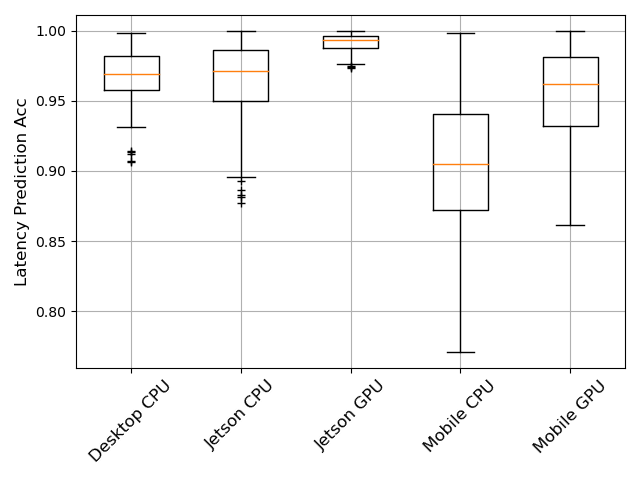
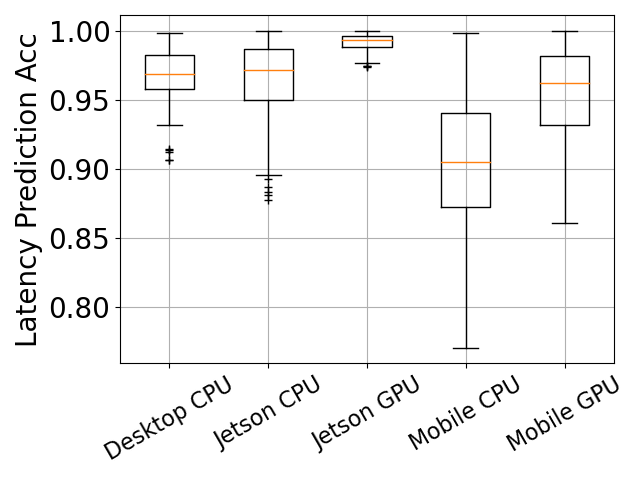
modify the fontsize  of figures

diff --git a/box_plot/box_plot.py b/box_plot/box_plot.py
@@ -103,9 +103,11 @@ fig, ax = plt.subplots()
 ax.boxplot(data, sym='+', positions=range(1, len(data) + 1))
 # Set x-axis labels
 ax.set_xticks(range(1, len(devices) + 1))
-ax.set_xticklabels(devices, rotation=45, fontsize=12)
+ax.set_xticklabels(devices, rotation=30, fontsize=16)
 # Set y-axis label
-ax.set_ylabel('Latency Prediction Acc', fontsize=12)
+ax.set_ylabel('Latency Prediction Acc', fontsize=20)
+ax.tick_params(axis='y', labelsize=20)
+
 # Set title
 # ax.set_title('Boxplot of Model Latency Accuracy (using all 38 configs)', fontsize=12)
 # Show the grid
@@ -185,11 +187,11 @@ ax.boxplot(data, sym='+', positions=range(1, len(data) + 1))
 
 # Set x-axis labels
 ax.set_xticks(range(1, len(devices) + 1))
-ax.set_xticklabels(devices, rotation=45, fontsize=12)
+ax.set_xticklabels(devices, rotation=30, fontsize=16)
 
 # Set y-axis label
-ax.set_ylabel('Memory Prediction Acc', fontsize=12)
-
+ax.set_ylabel('Memory Prediction Acc', fontsize=20)
+ax.tick_params(axis='y', labelsize=20)
 # Set title
 # ax.set_title('Boxplot of Model Memory Accuracy (using all 38 configs)', fontsize=12)
 

diff --git a/server_cpu/acc vs config number.py b/server_cpu/acc vs config number.py
@@ -40,9 +40,13 @@ for train_size in train_data_sizes:
 
 # Create the plot
 plt.figure()
-plt.plot(train_data_sizes, accuracy_values, marker='o', color='orange')
-plt.xlabel('Number of Random Configurations Generated', fontsize=12)
-plt.ylabel('Latency Prediction Acc', fontsize=12)
+plt.figure(figsize=(10, 7))  # Increase figure size
+plt.plot(train_data_sizes, accuracy_values, marker='o', markersize=10, color='orange', linewidth=4)
+plt.xlabel('Number of Random Configurations Generated', fontsize=26)
+plt.ylabel('Latency Prediction Acc', fontsize=26)
+# Set the font size of x and y axis tick labels
+plt.xticks(fontsize=26)
+plt.yticks(fontsize=26)
 # plt.title('Effect of Training Data Size on Model Latency Accuracy', fontsize=12)
 plt.grid(True)
 plt.tight_layout()  # To improve spacing
